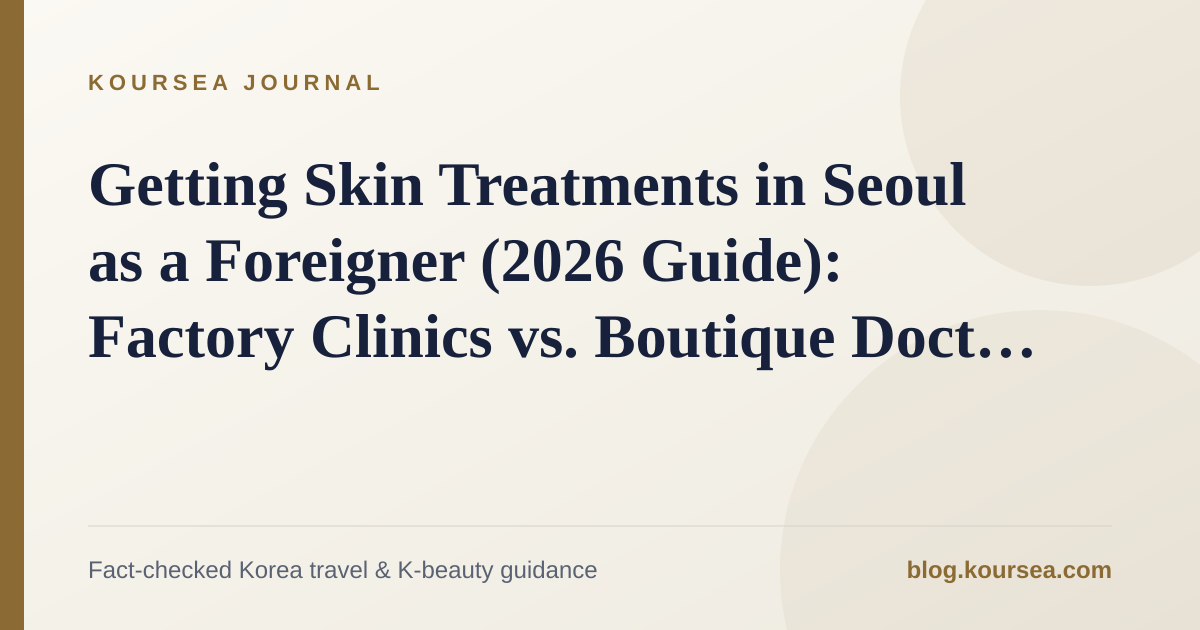
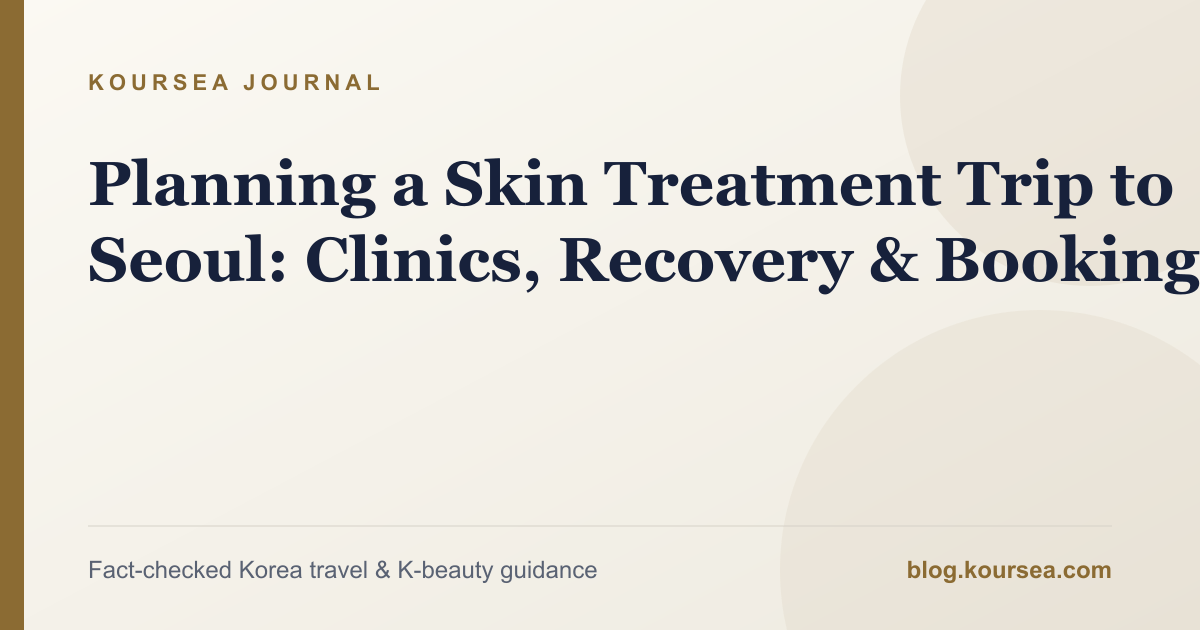
seo: consolidate blog intent and related guides

diff --git a/src/content/posts/skin-treatments-seoul-foreigners-guide.md b/src/content/posts/skin-treatments-seoul-foreigners-guide.md
@@ -1,8 +1,8 @@
 ---
-title: "Getting Skin Treatments in Seoul as a Foreigner (2026 Guide): Factory Clinics vs. Boutique Doctors & The Truth About VAT"
-description: "Plan Seoul skin treatments with realistic 2026 prices, downtime, clinic-model comparisons, language checks, and VAT-inclusive budgeting advice."
+title: "Planning a Skin Treatment Trip to Seoul: Clinics, Recovery & Booking"
+description: "Plan a Seoul clinic visit around consultation style, realistic downtime, direct booking, payment, navigation, and post-treatment travel."
 pubDate: 2026-09-02
-updatedDate: 2026-09-02
+updatedDate: 2026-09-28
 tags: ["Seoul Travel", "K-Beauty", "Seoul Dermatology", "Skin Treatments Korea", "Foreigner Guide"]
 canonicalUrl: "https://blog.koursea.com/posts/skin-treatments-seoul-foreigners-guide/"
 author: "Koursea Editorial"
@@ -19,11 +19,11 @@ faq:
 reviewer: "HJ MUN"
 ---
 
-Walking through Gangnam or Sinsa, you cannot miss the towering multi-story buildings wrapped in dermatological ads. Seoul is globally recognized as the capital of medical aesthetics, offering cutting-edge laser technologies, lifting devices, and injectable treatments at prices that can be 50% to 70% lower than in the United States, Australia, or Europe.
+Walking through Gangnam or Sinsa, you cannot miss the multi-story buildings wrapped in dermatology and cosmetic-treatment ads. For a short-term visitor, however, the important decision is not simply which treatment appears cheapest. It is whether the clinic model, consultation language, recovery window, payment process, and follow-up plan fit the trip.
 
 However, booking a skin treatment in a foreign country comes with friction. Online forums are flooded with conflicting information, and viral social media clips rarely discuss the realities of clinical assembly lines, language barriers, or post-treatment downtime.
 
-This guide breaks down how Seoul’s aesthetic ecosystem actually works in 2026, the critical differences between factory clinics and boutique dermatologists, and the major tax policy shift every traveler must budget for before booking.
+This guide focuses on the appointment-planning workflow: how Seoul’s clinic models differ, how to book directly, and how much recovery time to protect in the itinerary. For like-for-like treatment price ranges, use the separate [Seoul Skin Clinic Price Guide](/posts/seoul-skin-clinic-cost-guide/).
 
 ---
 

diff --git a/src/content/posts/seoul-skin-clinic-cost-guide.md b/src/content/posts/seoul-skin-clinic-cost-guide.md
@@ -2,7 +2,7 @@
 title: "Seoul Skin Clinic Price Guide (2026): What Foreigners Actually Pay"
 description: "2026 benchmark rates for Rejuran, Ultherapy, Shurink, and Botox in Seoul. Compare standard network clinic prices with premium private practices."
 pubDate: 2026-09-04
-updatedDate: 2026-09-04
+updatedDate: 2026-09-28
 tags: ["Seoul Skin Clinic", "K-Beauty", "Clinic Prices", "Rejuran", "Ultherapy"]
 canonicalUrl: "https://blog.koursea.com/posts/seoul-skin-clinic-cost-guide/"
 author: "Koursea Editorial"
@@ -79,6 +79,8 @@ Choose a standard network clinic when you already understand the treatment, want
 Consider a private one-on-one practice when diagnosis, facial-anatomy judgment, customized energy settings, or continuity with the same physician matters more than the lowest price. Complex filler design, combination treatments, and concerns with a medical history deserve more consultation time.
 
 For a fuller service-model comparison, read [Factory-Style vs Private Clinic in Korea: How to Choose](/posts/how-to-choose-a-clinic-korea/).
+
+If you are building the appointment into a short visit, use [Planning a Skin Treatment Trip to Seoul](/posts/skin-treatments-seoul-foreigners-guide/) for booking, navigation, and recovery sequencing rather than price benchmarking.
 
 ## Foreigner FAQ
 
